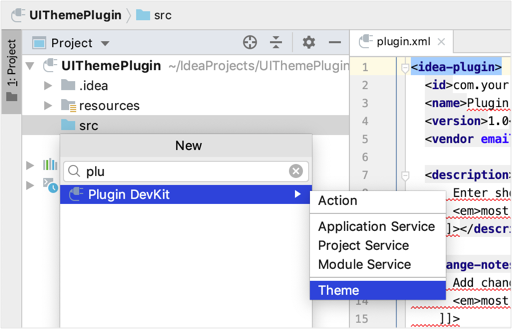
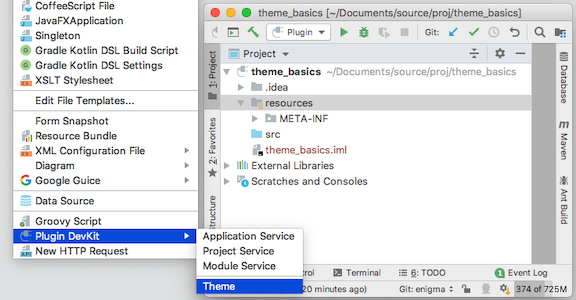
Moved json file to resources folder

diff --git a/reference_guide/ui_themes/themes.md b/reference_guide/ui_themes/themes.md
@@ -16,7 +16,7 @@ Theme plugins should be stand-alone plugins, and not combined with other plugin 
 This approach is the best user experience because it avoids an IDE restart when installing a UI Theme plugin.
 
 UI Themes have several components:
-* A required Theme description (JSON) file in the plugin project's `src` (source code) folder. 
+* A required Theme description (JSON) file in the plugin project's `resources` folder. 
 * A required `themeProvider` declaration in the plugin's `plugin.xml` file, located in the plugin project's `META-INF` folder.
 * An optional Editor Scheme description (XML) file derived from an exported IDE editor scheme. 
   This file is located in the plugin project's `resources` folder.
@@ -44,7 +44,7 @@ A UI Theme is added to an IntelliJ Platform plugin using the DevKit UI Theme Wiz
 The DevKit Wizard is part of the DevKit plugin, which is bundled with IntelliJ IDEA. 
 This Wizard can be used for both DevKit-based and Gradle-based plugins.
 
-While a plugin project is open in IntelliJ IDEA, select the `src` folder in the _Project_ tool window.
+While a plugin project is open in IntelliJ IDEA, select the `resources` folder in the _Project_ tool window.
 From the main menu, select the _**New | Plugin DevKit | Theme**_ action. 
 
 ![DevKit Wizard Action](img/devkit_wiz_action.png)
@@ -61,7 +61,7 @@ Checking _Dark theme_ means basing the custom Theme on _Darcula_.
 Leaving the box unchecked means basing the custom Theme on the default IntelliJ IDEA _Light_ Theme. 
 For the SDK code sample `theme_basics` the box is _unchecked_.
 
-Clicking the _OK_ button creates a default Theme description file named `[themeName].theme.json` in the plugin project's `src` directory. 
+Clicking the _OK_ button creates a default Theme description file named `[themeName].theme.json` in the plugin project's `resources` folder. 
 In this example, the file is named `theme_basics.theme.json`. 
 The content of the default file is a short set of key–value pairs:  
 ```json
